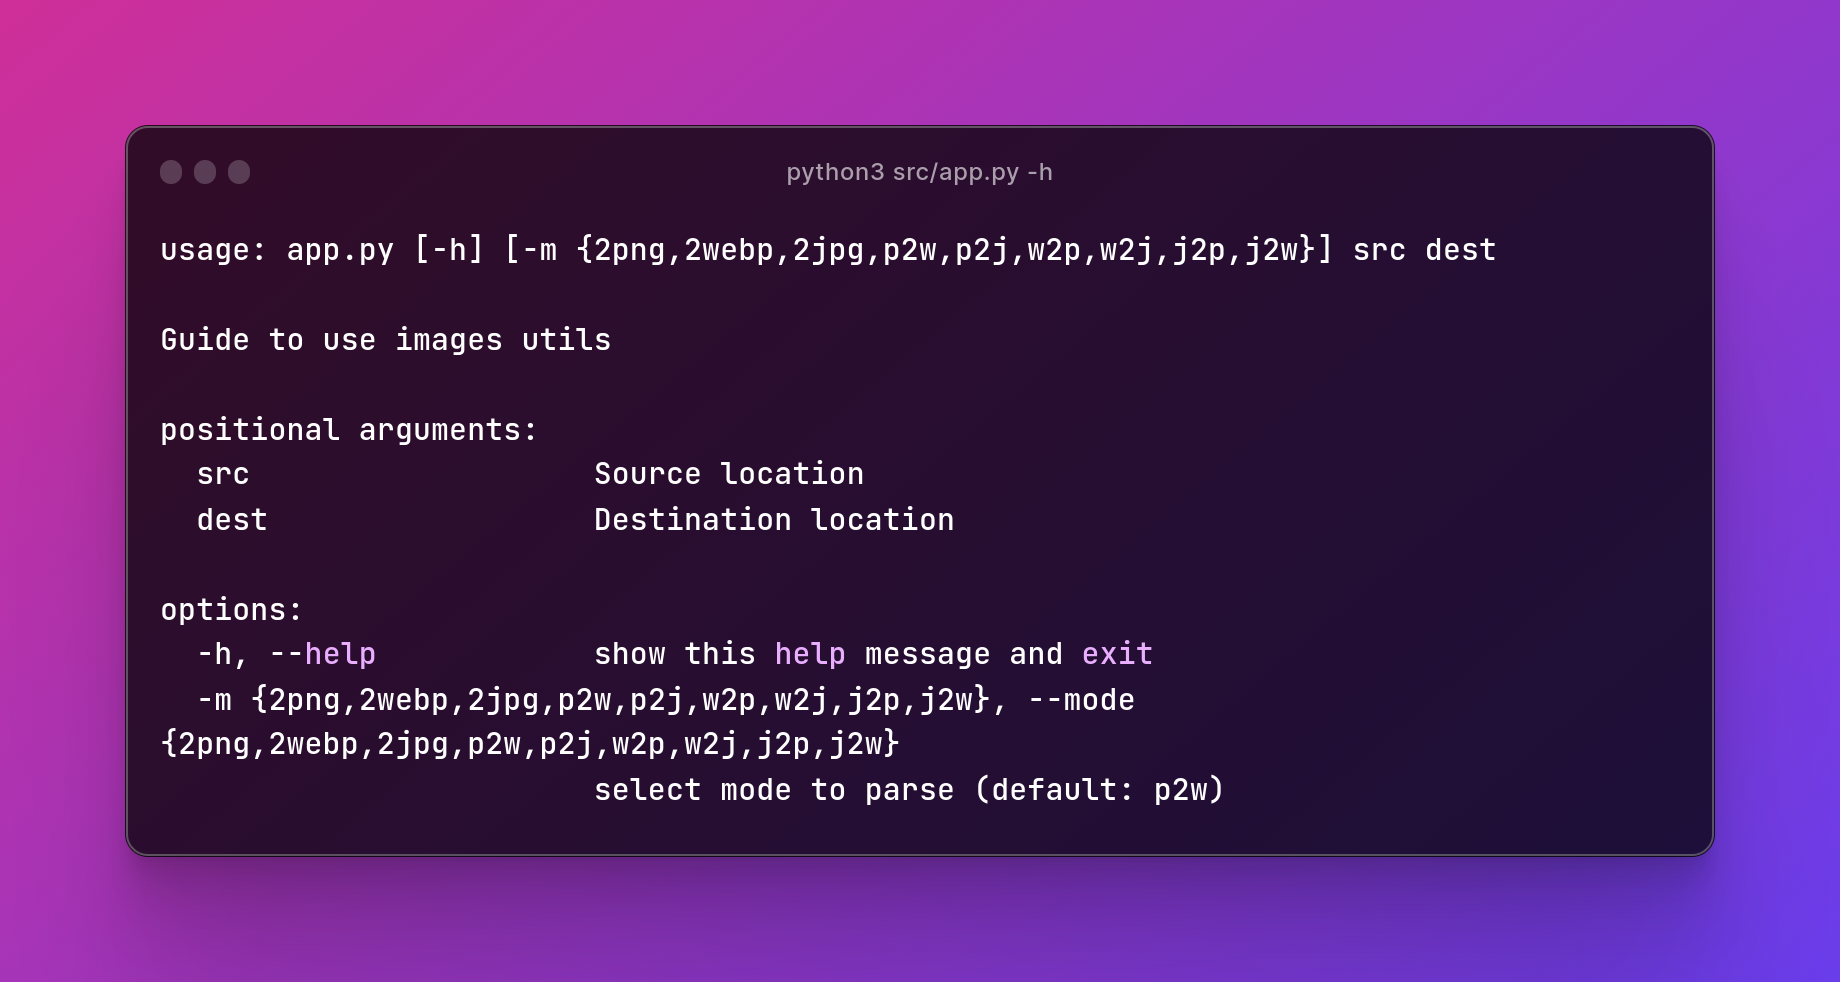
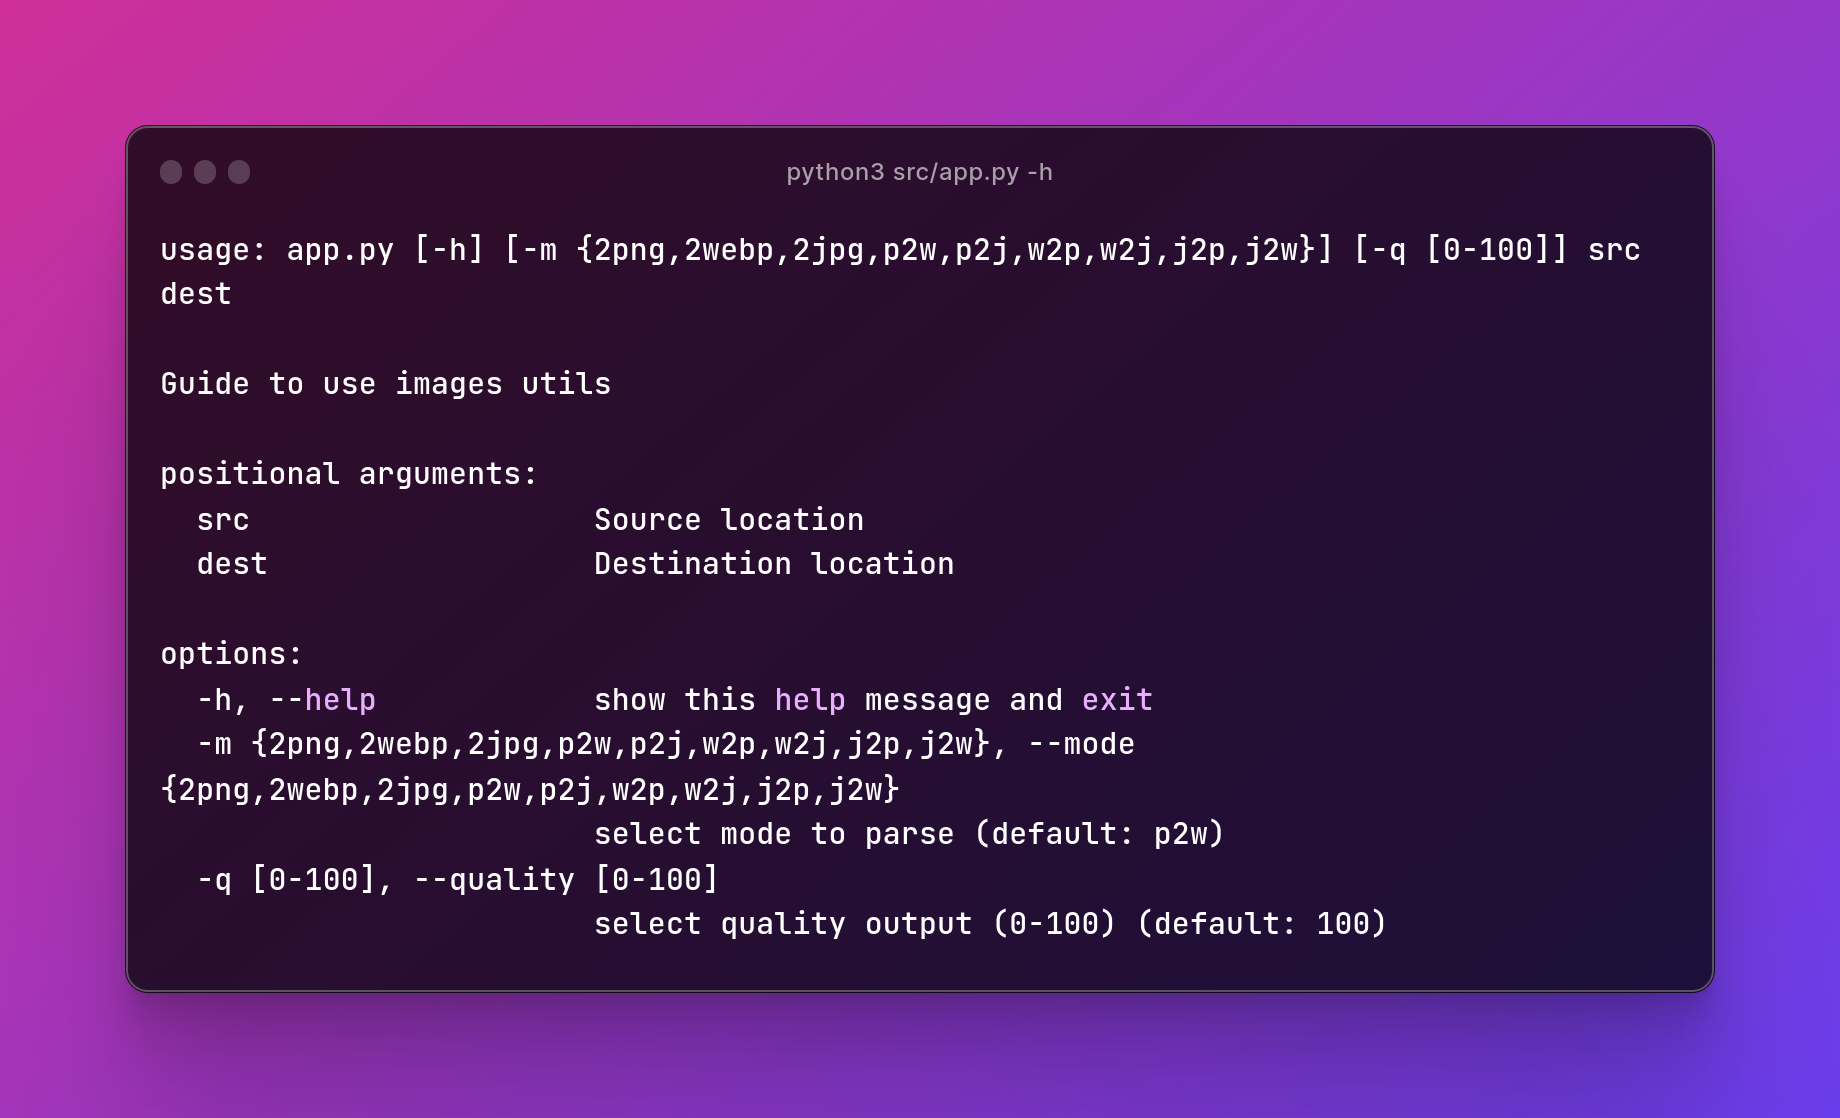
added quality option

diff --git a/src/app.py b/src/app.py
@@ -1,4 +1,5 @@
 import datetime
+import math
 import os
 from PIL import Image
 import argparse
@@ -10,7 +11,10 @@ class App():
         parser = argparse.ArgumentParser(description="Guide to use images utils",
                                          formatter_class=argparse.ArgumentDefaultsHelpFormatter)
         parser.add_argument(
-            "-m", "--mode", help="select mode to parse", choices=["2png","2webp", "2jpg", "p2w", "p2j", "w2p", "w2j", "j2p", "j2w"], default="p2w")
+            "-m", "--mode", help="select mode to parse", choices=["2png", "2webp", "2jpg", "p2w", "p2j", "w2p", "w2j", "j2p", "j2w"], default="p2w")
+        parser.add_argument("-q", "--quality", type=int, choices=range(0, 101),
+                            metavar="[0-100]",
+                            help='select quality output (0-100)', default=100)
         parser.add_argument("src", help="Source location")
         parser.add_argument("dest", help="Destination location")
         args = parser.parse_args()
@@ -24,17 +28,20 @@ class App():
         if os.path.isfile(config["src"]):
             config["dest"] = os.path.abspath(self.get_dest(config))
             config["src"] = os.path.abspath(config["src"])
+            # setting the min quality value to fit scale 20-100 and avoid excesive compress quality
+            config["quality"] = math.floor(((config["quality"] - 0) / (100 - 0)) * (100 - 20) + 20)
             if og_format in config["src"] or og_format == "all":
-                self.parse_image(config["src"], config["dest"], format)
+                self.parse_image(
+                    config["src"], config["dest"], format, config["quality"])
             else:
                 print("Error: Entry Image Format Invalid")
                 os._exit(0)
         else:
             self.convert_images(
-                config["src"], config["dest"], format, og_format)
+                config["src"], config["dest"], format, og_format, config["quality"])
         print("Parse Completed Succesfully")
-        
-    def get_dest(self,config):
+
+    def get_dest(self, config):
         if config["dest"] == ".":
             return os.path.dirname(config["src"])
         return config["dest"]
@@ -57,23 +64,23 @@ class App():
         else:
             return "all"
 
-    def convert_images(self, src, dest, format, og_format):
+    def convert_images(self, src, dest, format, og_format, quality):
         files = os.listdir(src)
         for file in files:
-            filepath = os.path.join(src,file)
+            filepath = os.path.join(src, file)
             if os.path.isfile(filepath):
                 if og_format in filepath or og_format == "all":
-                    self.parse_image(filepath, dest, format)
+                    self.parse_image(filepath, dest, format, quality)
 
-    def parse_image(self, filename, dest, format):
+    def parse_image(self, filename, dest, format, quality):
         if self.is_image(filename):
             if not os.path.exists(dest):
                 os.makedirs(dest)
             name = self.create_name(filename, dest, format)
             image = self.open_image(filename)
             if format == "jpg":
-                image = image.convert("RGB")
-            self.save_image(image, name)
+                image = image.convert("RGBX")
+            self.save_image(image, name, quality)
 
     def is_image(self, filename):
         return (filename.endswith(".jpg") or filename.endswith(
@@ -81,7 +88,7 @@ class App():
 
     def create_name(self, fullpath, dest, format):
         filename = os.path.basename(fullpath)
-        name,ext = os.path.splitext(filename)
+        name, ext = os.path.splitext(filename)
         new_dest = os.path.join(dest, f"{name}.{format}")
         if os.path.exists(new_dest):
             name = f"{name}-{datetime.datetime.now()}"
@@ -90,8 +97,8 @@ class App():
     def open_image(self, filename):
         return Image.open(filename)
 
-    def save_image(self, image, filename):
-        image.save(filename)
+    def save_image(self, image, filename, quality):
+        image.save(filename, quality=quality, optimize=True)
         image.close()
 
 

diff --git a/README.md b/README.md
@@ -2,12 +2,15 @@
 
 ### this project is created to parsed the format in images or resizes them. i'm tired of websites that don't enable parsed more than five images at same time.
 
+# ⚠ Currently there are problems with images with alpha when parsing them to jpg
+
 # ℹ Notes
 
-- if you can contribuite with a new endpoints or logic, send a pull request.
+- if you can contribuite with a new logic, send a pull request.
 - if you like this repo and it's usefull for your, give me a start 🌟
 - ## Added handler to  save parsed images in the same folder, use "."
 - ## Added compatibility to relatives paths
+- ## Added quality mode to compress images use -q=""
 
 ---
 
@@ -63,4 +66,10 @@ python3 src/app.py -m="2webp" /home/user/pictures/ /home/user/pictures/
 
 ```bash
 python3 src/app.py -m="2png" /home/user/pictures/ /home/user/pictures/pngs
+```
+
+### Example to parsing images from a folder from png to webp and usign quality option
+
+```bash
+python3 src/app.py -m="2webp" -q="50" /home/user/pictures/ . 
 ```
